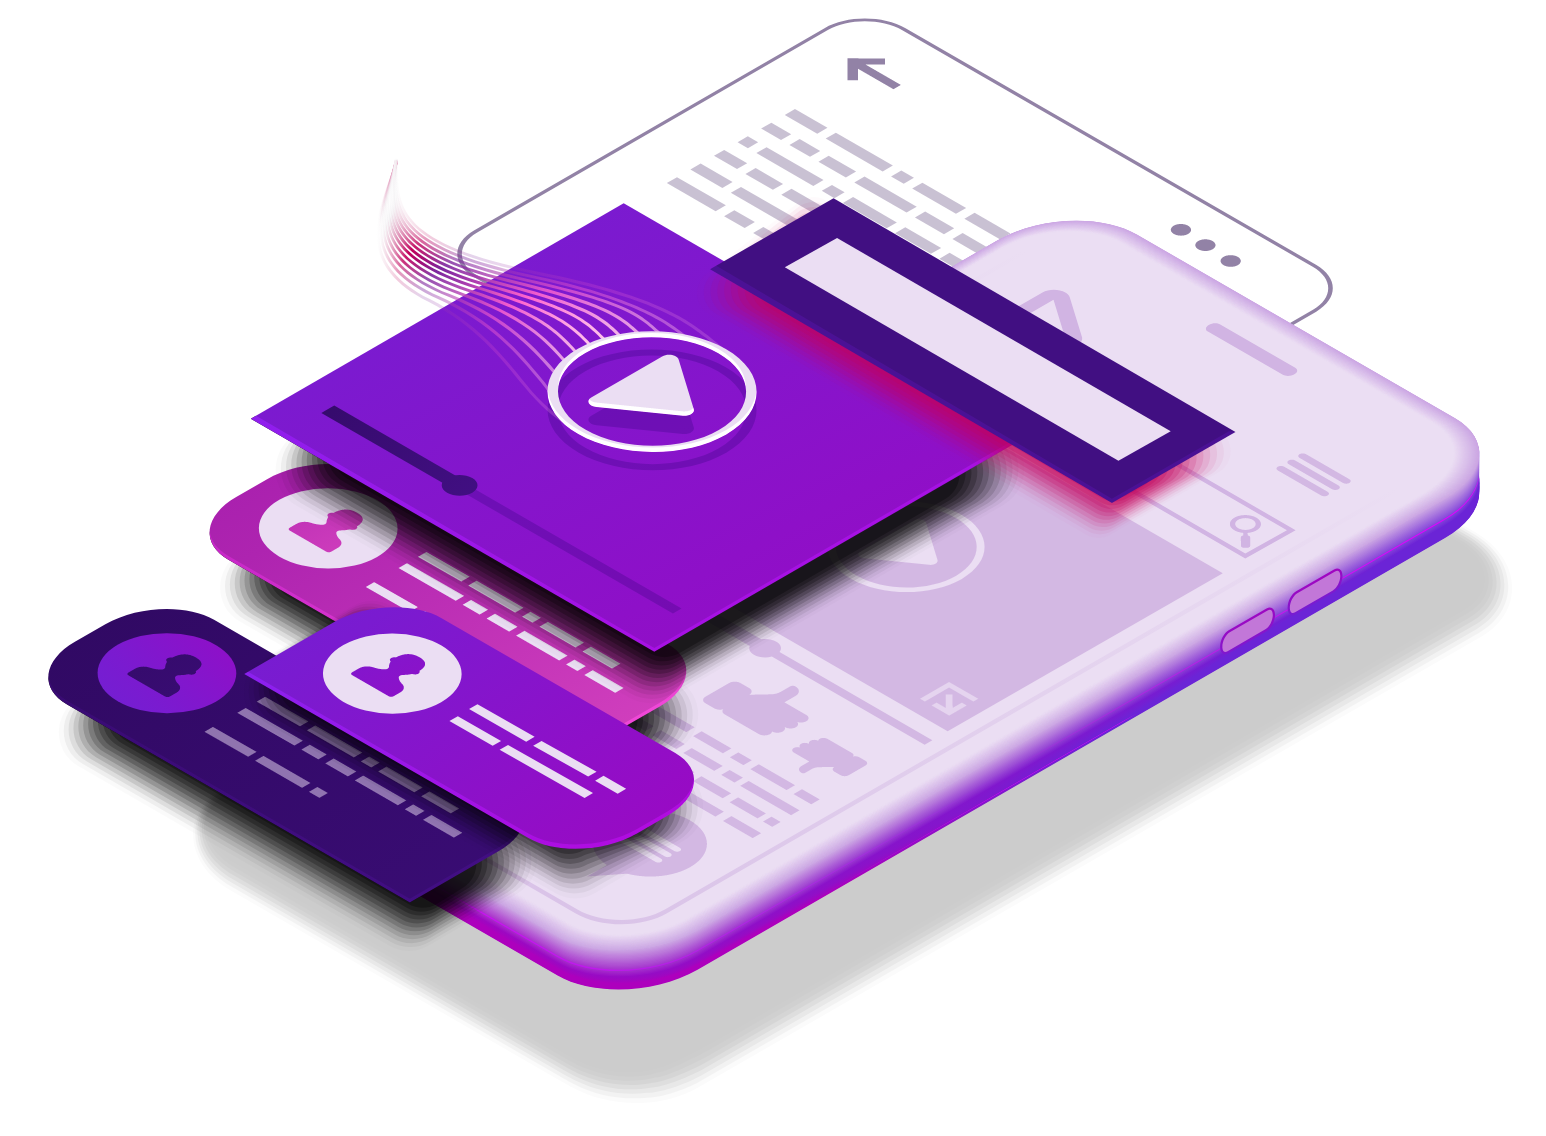
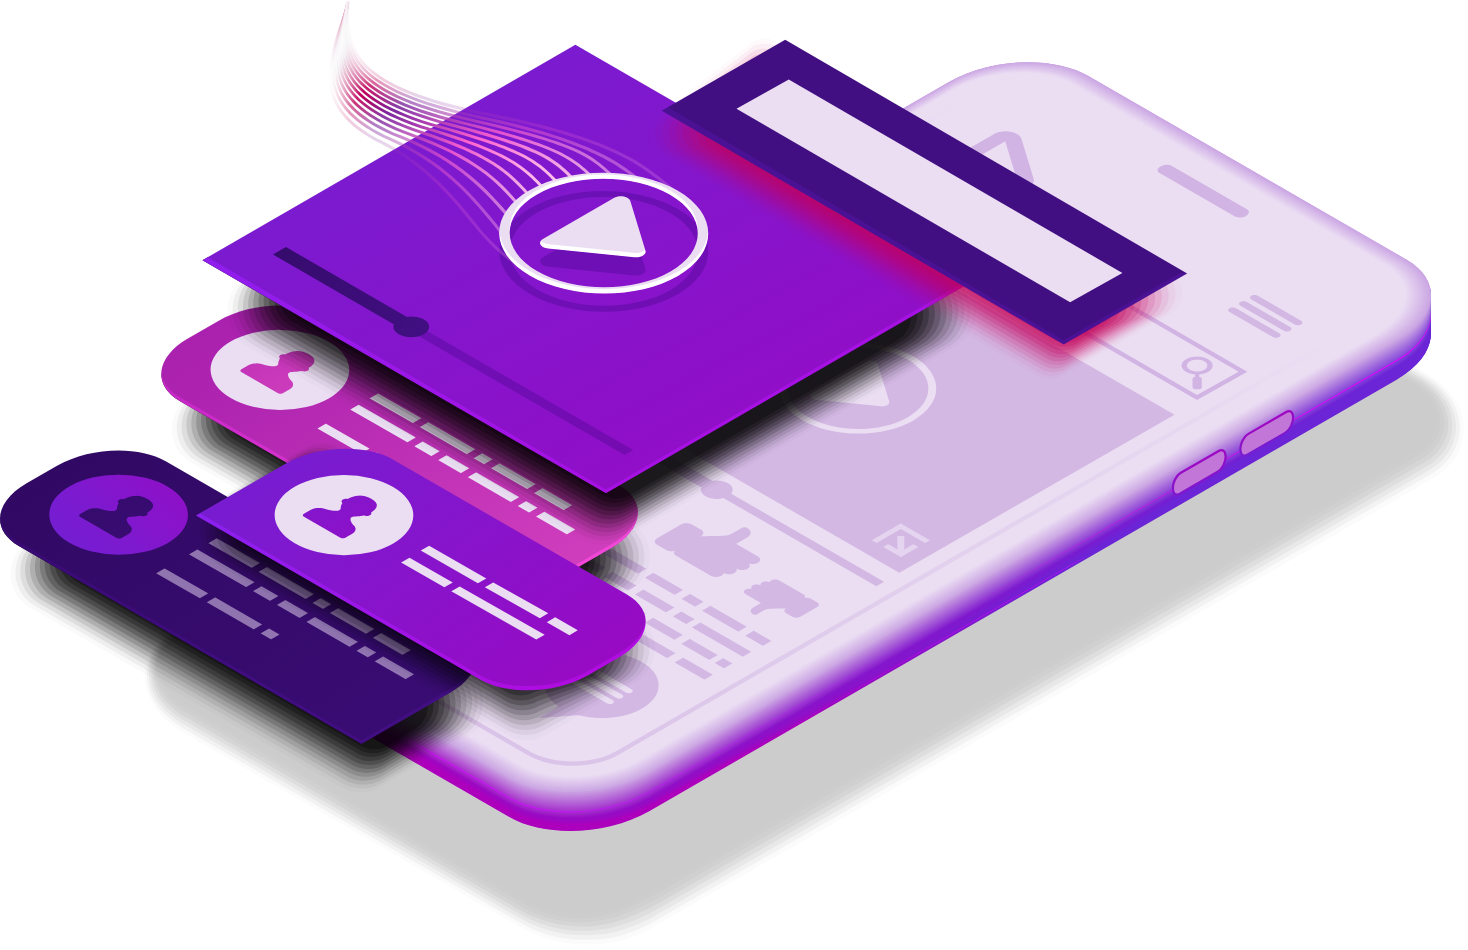
fix acomodando landingPage

diff --git a/src/app/pages/landing/landing.component.css b/src/app/pages/landing/landing.component.css
@@ -654,7 +654,7 @@ span {
 
 .imgLandingComunidad {
     position: absolute;
-    bottom: -30px;
+    bottom: -70px;
     left: 65px;
 }
 
@@ -662,7 +662,7 @@ span {
     .imgLandingComunidad {
         width: 50%;
         height: 50%;
-        left: -14%;
+        left:10%;
         top: 10%
     }
 }
@@ -679,6 +679,13 @@ span {
 .imageComunity {
     width: 491px;
     height: 307px;
+}
+@media screen and (max-width: 768px) {
+    .imageComunity {
+       width: 95%;
+        right: 10%;
+        top: 15%
+    }
 }
 
 @media screen and (max-width: 480px) {
